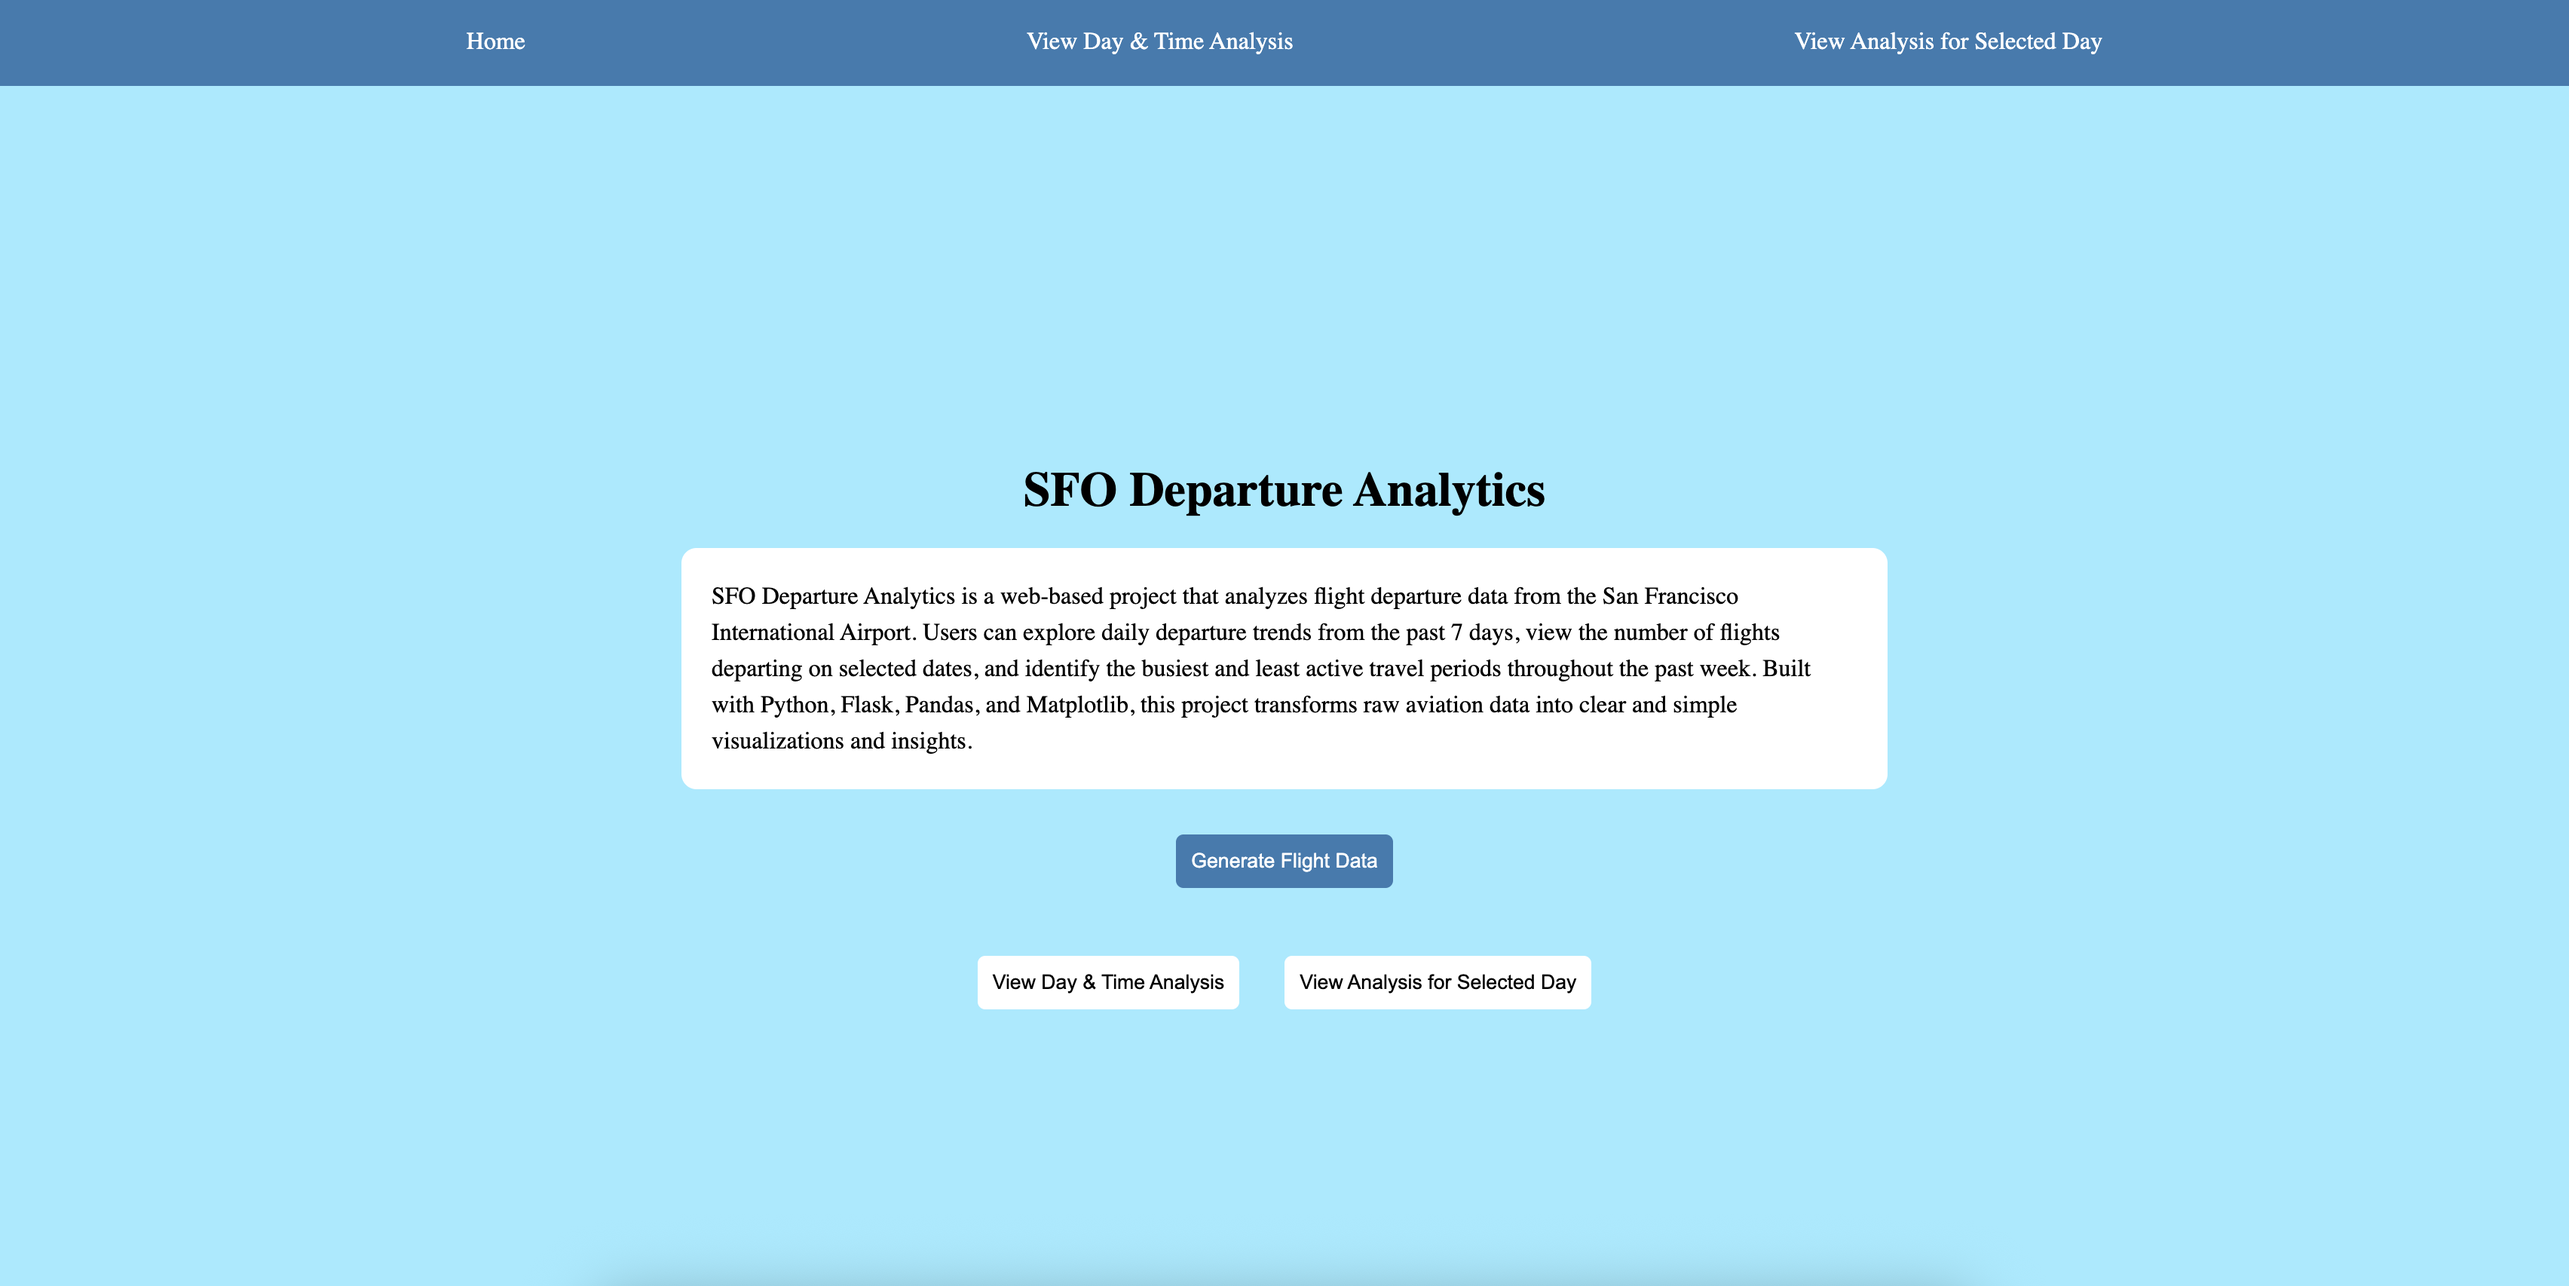
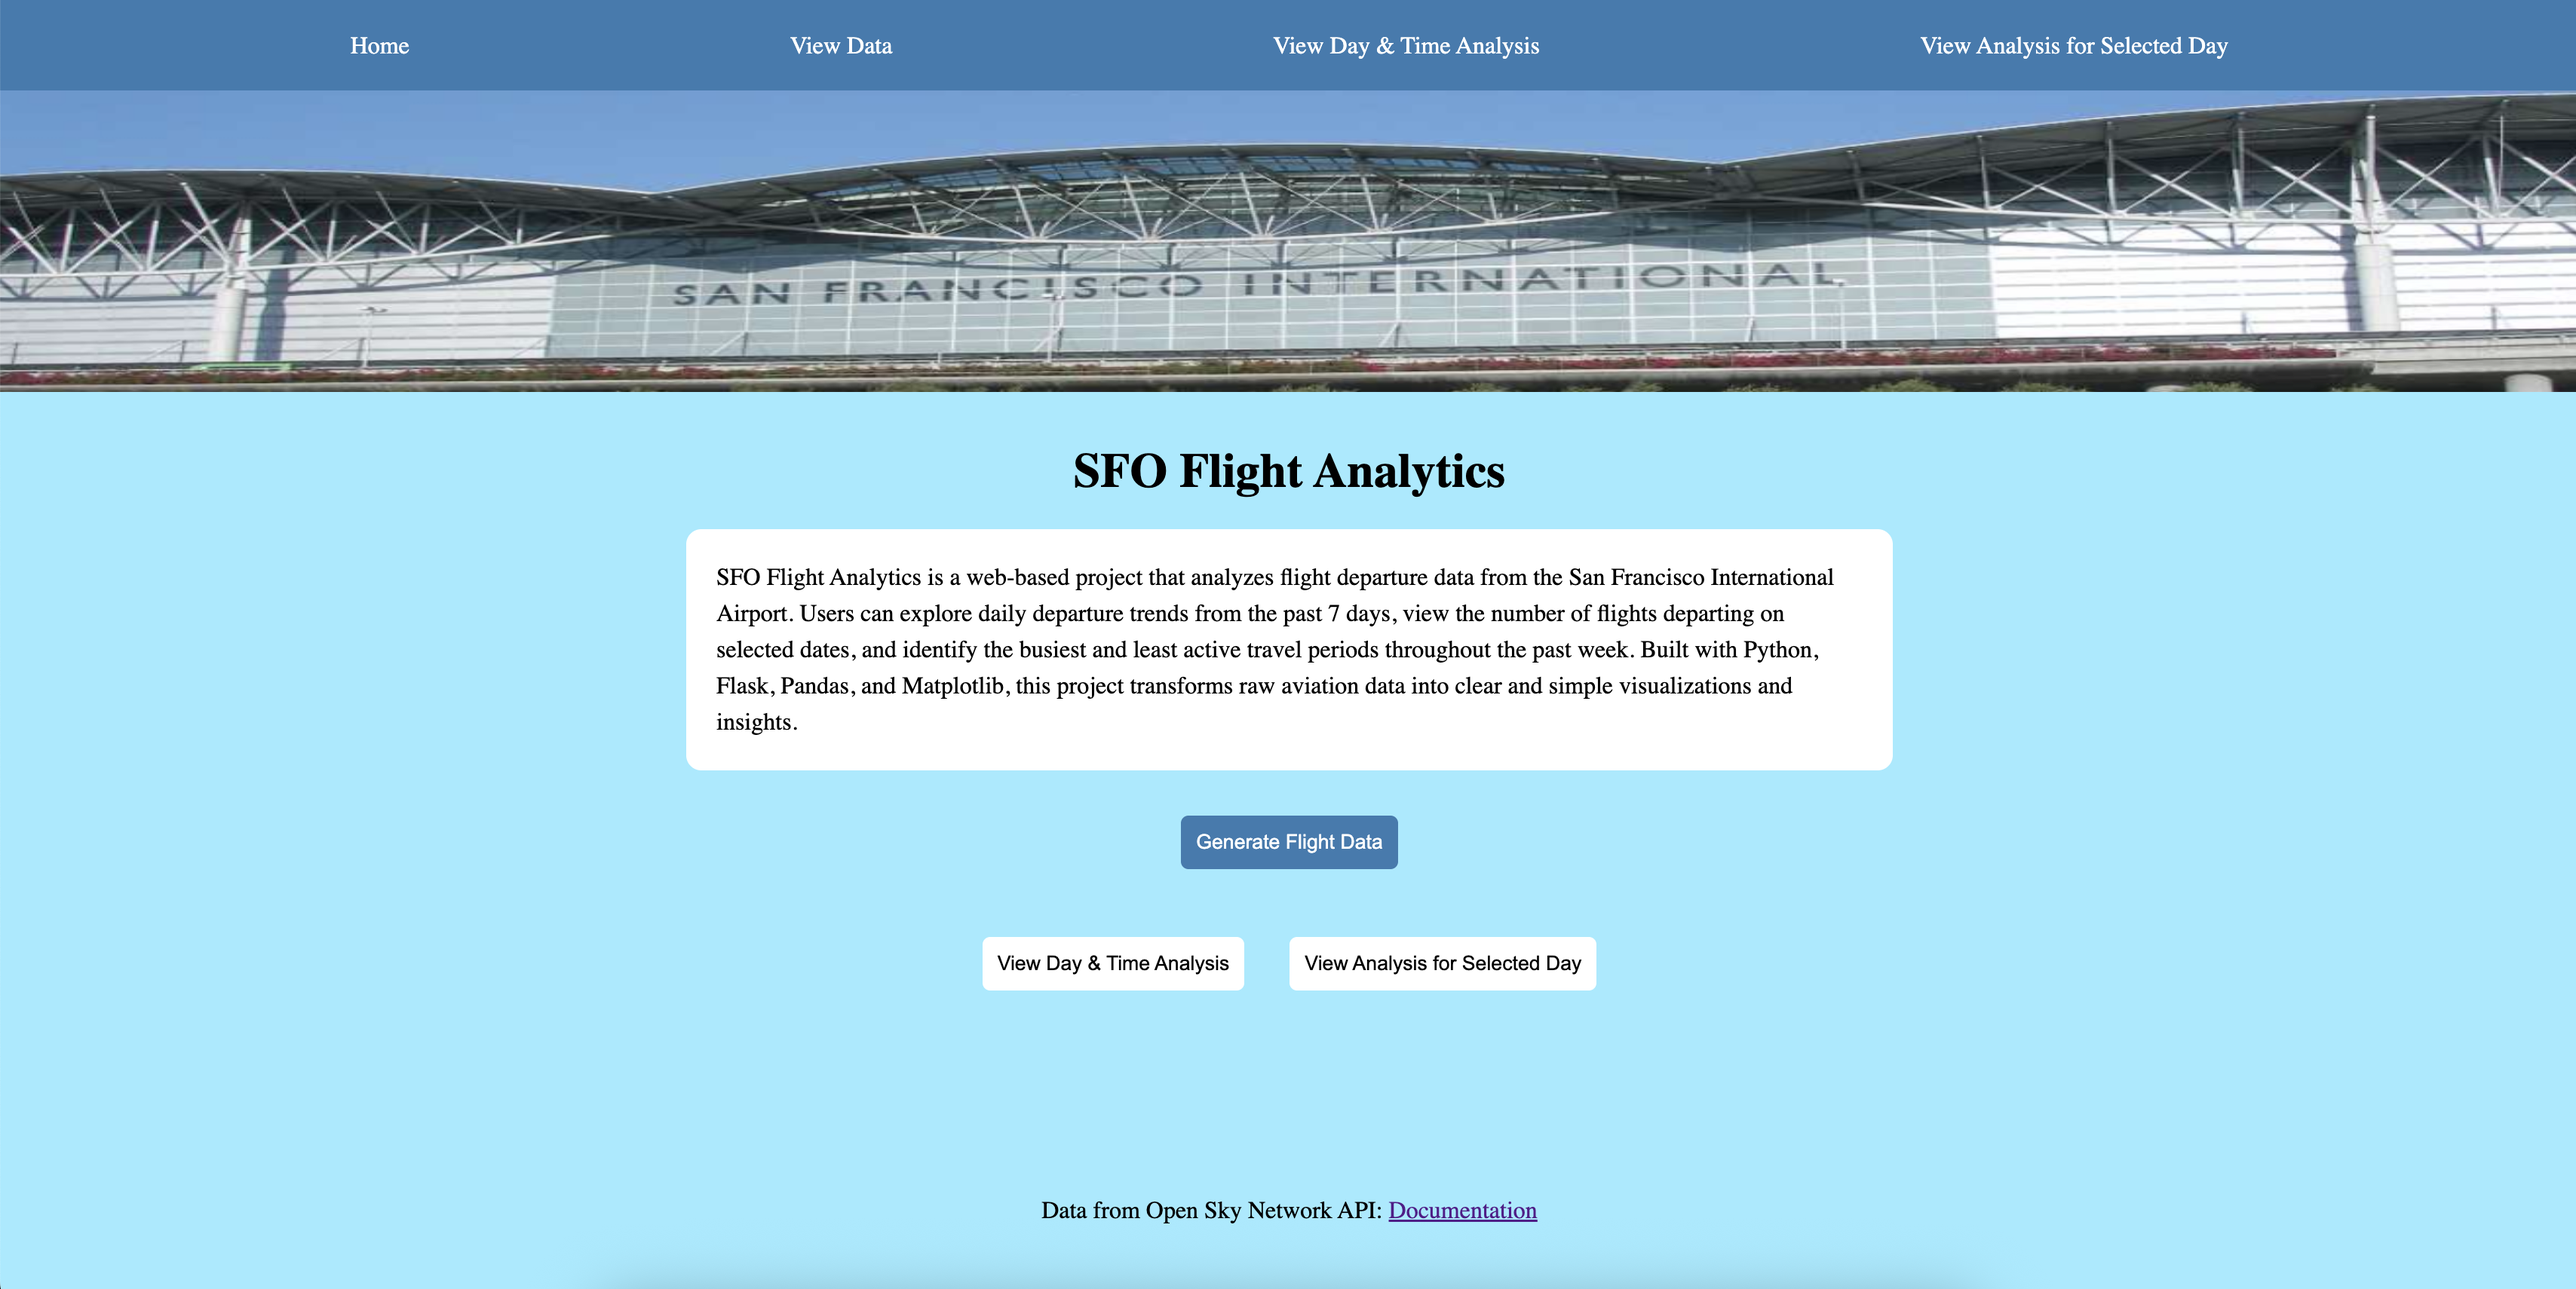
updated README

Changed region(s): [[0.0, 0.0311, 1.0, 0.3107], [0.2488, 0.3417, 0.7465, 0.8077], [0.4043, 0.932, 0.591, 0.9631]]

diff --git a/README.md b/README.md
@@ -37,5 +37,7 @@ Project Outline/Plan:
     - This analysis helps users better understand peak travel periods and identify more optimal times to fly from the SFO airport.
   
 ![Home Page](assets/home_page.png)  
-![Day Time Page](assets/day_time_page.png) 
-![Day Time Page](assets/selected_day_page.png)
+![Data Page](assets/data_page.png)  
+![Day Time Page](assets/day_time_page_daily.png)   
+![Day Time Page](assets/day_time_page_hourly.png)   
+![Selected Day Page](assets/selected_day_page.png)
